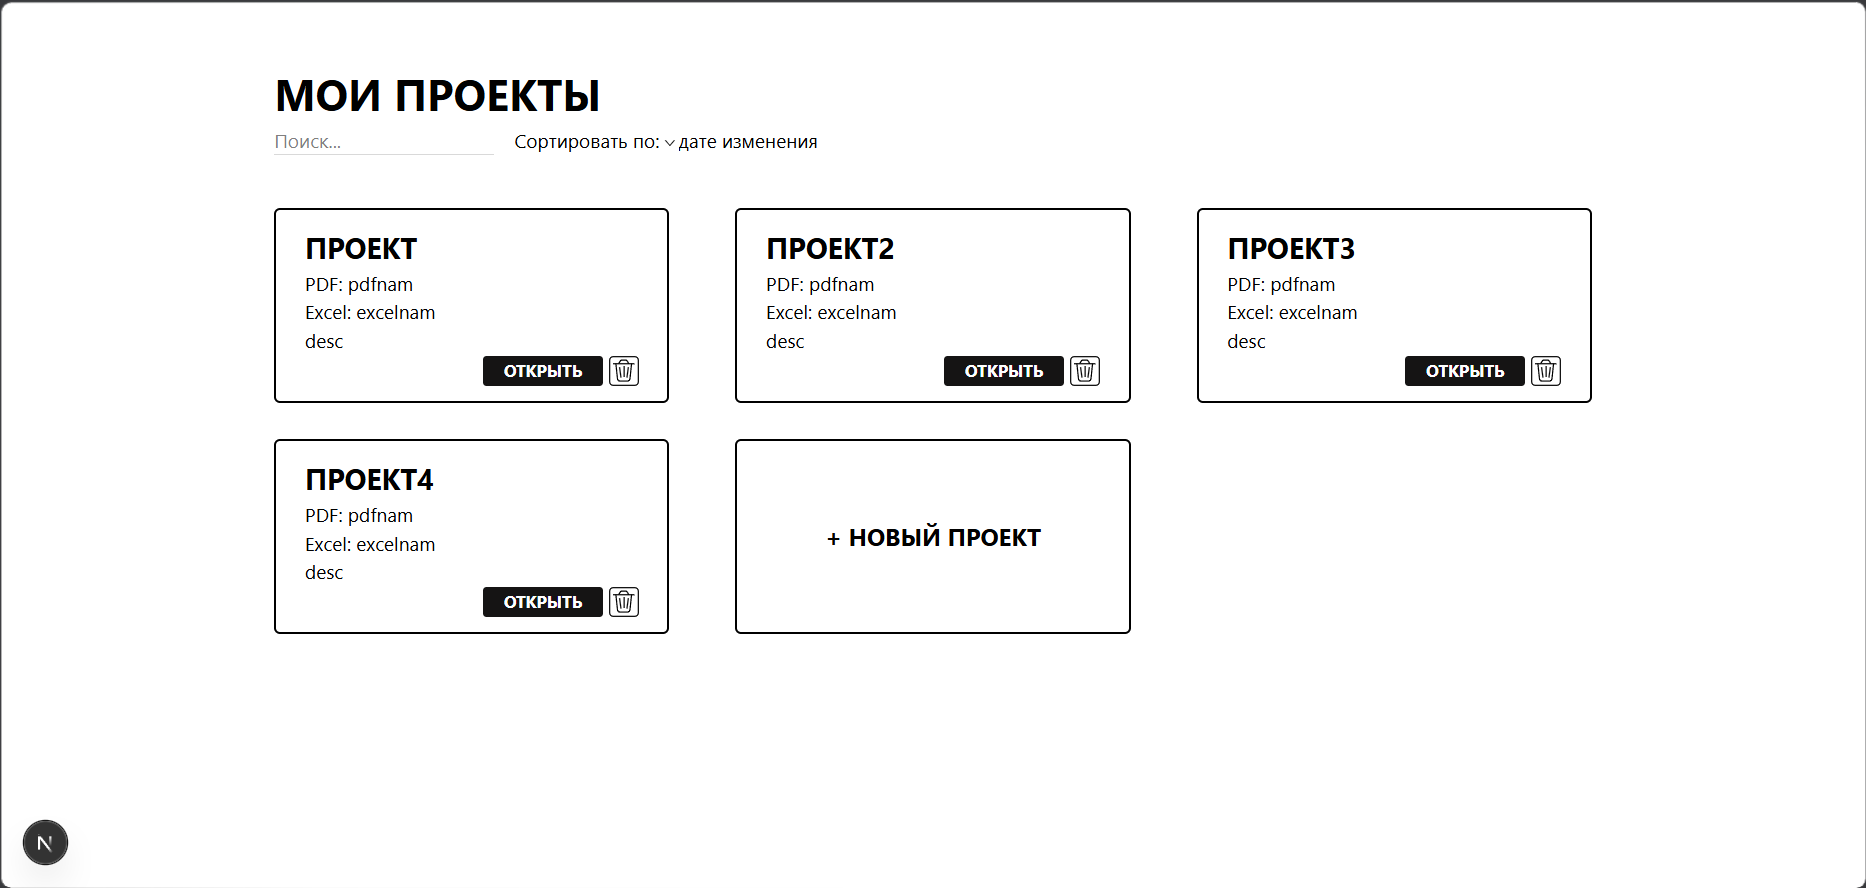
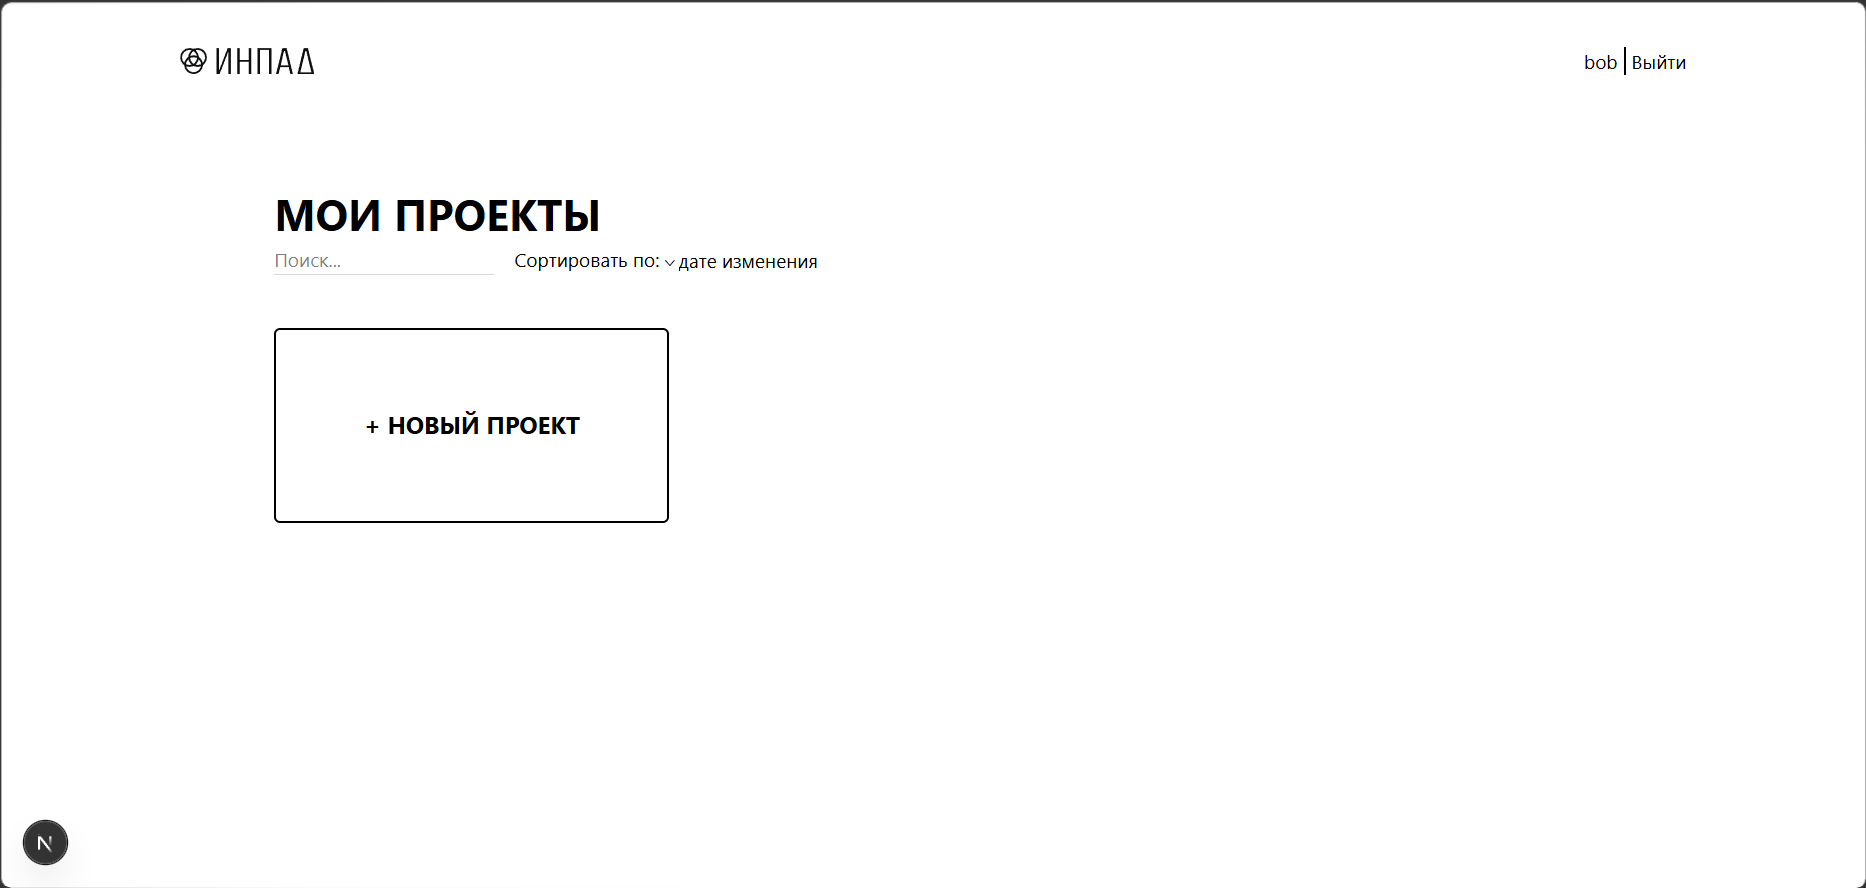
update README

diff --git a/README.md b/README.md
@@ -1,45 +1,44 @@
 ## Скриншоты
+<img src=".github/images/project.png" width="700">
+
 <img src=".github/images/myprojects.png" width="700">
 
 <img src=".github/images/register.png" width="700">
 
 <img src=".github/images/login.png" width="700">
 
-## Overview
+# INPAD — Воздухообмен
 
-This is a [Next.js](https://nextjs.org) project bootstrapped with [`create-next-app`](https://nextjs.org/docs/app/api-reference/cli/create-next-app).
+Веб-приложение для инженеров-проектировщиков вентиляции (ОВиК), автоматизирующее создание расчётных таблиц воздухообмена из PDF-чертежей.
 
-## Getting Started
+## Возможности
 
-First, run the development server:
+- **Загрузка PDF** — загружайте поэтажные планы с экспликациями помещений
+- **Гибкая настройка** — конфигурация параметров извлечения таблиц под каждый проект (этажи, заголовки столбцов, чувствительность распознавания)
+- **Автоматическое извлечение** — Python-скрипт находит таблицы экспликаций на чертежах и извлекает данные по каждому помещению
+- **Генерация Excel** — готовый файл с тремя листами:
+  - **Поэтажные таблицы** — номера, наименования, площади, объёмы, расчётные расходы притока и вытяжки
+  - **Системы** — сводка по системам вентиляции с 10% запасом и расчётом мощности калорифера
+  - **Подборы** — шаблон для подбора оборудования с выпадающими списками
+- **Управление проектами** — создавайте, переименовывайте, ищите и удаляйте проекты
+- **Аутентификация** — регистрация и вход по email или username
+
+## Технологии
+
+**Frontend:** Next.js 16, React 19, Tailwind CSS 4  
+**Backend:** Next.js API Routes  
+**База данных:** SQLite (Prisma ORM)  
+**Аутентификация:** better-auth  
+**Обработка PDF:** Python (pdfplumber, pdfminer)  
+**Генерация Excel:** Python (xlsxwriter)
+
+## Начало работы
+
+Установите зависимости и запустите сервер разработки:
 
 ```bash
+npm install
 npm run dev
-# or
-yarn dev
-# or
-pnpm dev
-# or
-bun dev
 ```
 
-Open [http://localhost:3000](http://localhost:3000) with your browser to see the result.
-
-You can start editing the page by modifying `app/page.tsx`. The page auto-updates as you edit the file.
-
-This project uses [`next/font`](https://nextjs.org/docs/app/building-your-application/optimizing/fonts) to automatically optimize and load [Geist](https://vercel.com/font), a new font family for Vercel.
-
-## Learn More
-
-To learn more about Next.js, take a look at the following resources:
-
-- [Next.js Documentation](https://nextjs.org/docs) - learn about Next.js features and API.
-- [Learn Next.js](https://nextjs.org/learn) - an interactive Next.js tutorial.
-
-You can check out [the Next.js GitHub repository](https://github.com/vercel/next.js) - your feedback and contributions are welcome!
-
-## Deploy on Vercel
-
-The easiest way to deploy your Next.js app is to use the [Vercel Platform](https://vercel.com/new?utm_medium=default-template&filter=next.js&utm_source=create-next-app&utm_campaign=create-next-app-readme) from the creators of Next.js.
-
-Check out our [Next.js deployment documentation](https://nextjs.org/docs/app/building-your-application/deploying) for more details.
+Откройте [http://localhost:3000](http://localhost:3000) в браузере.
